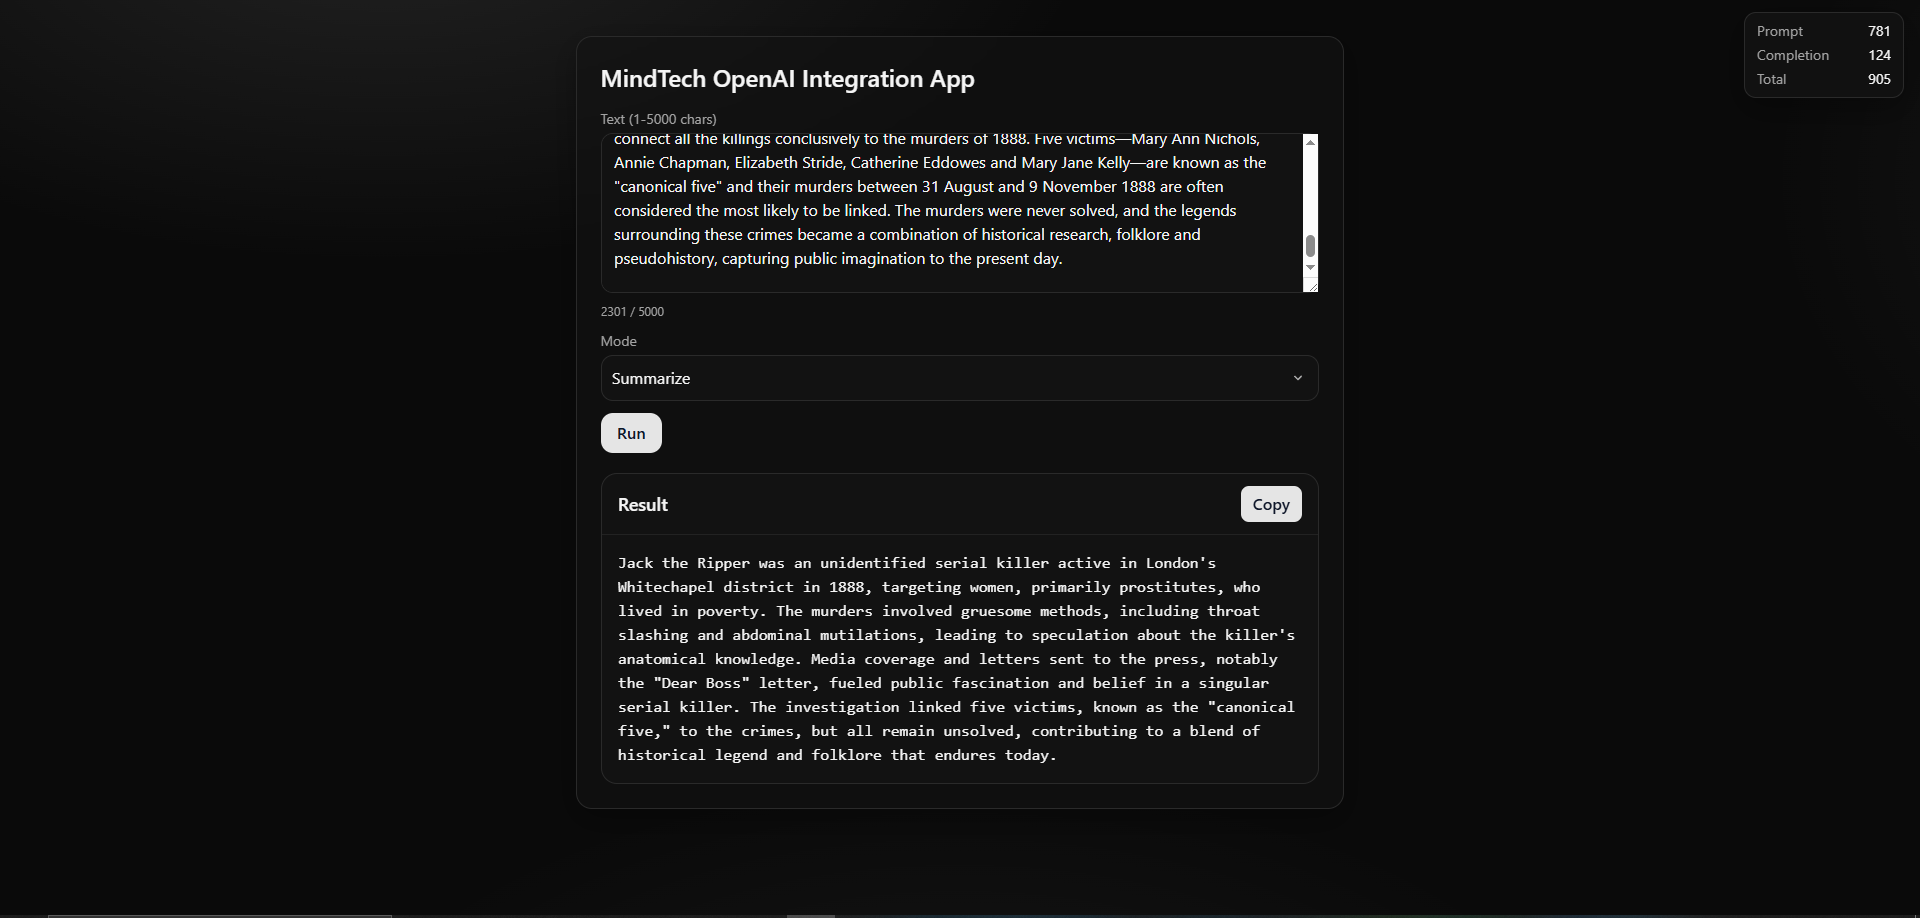
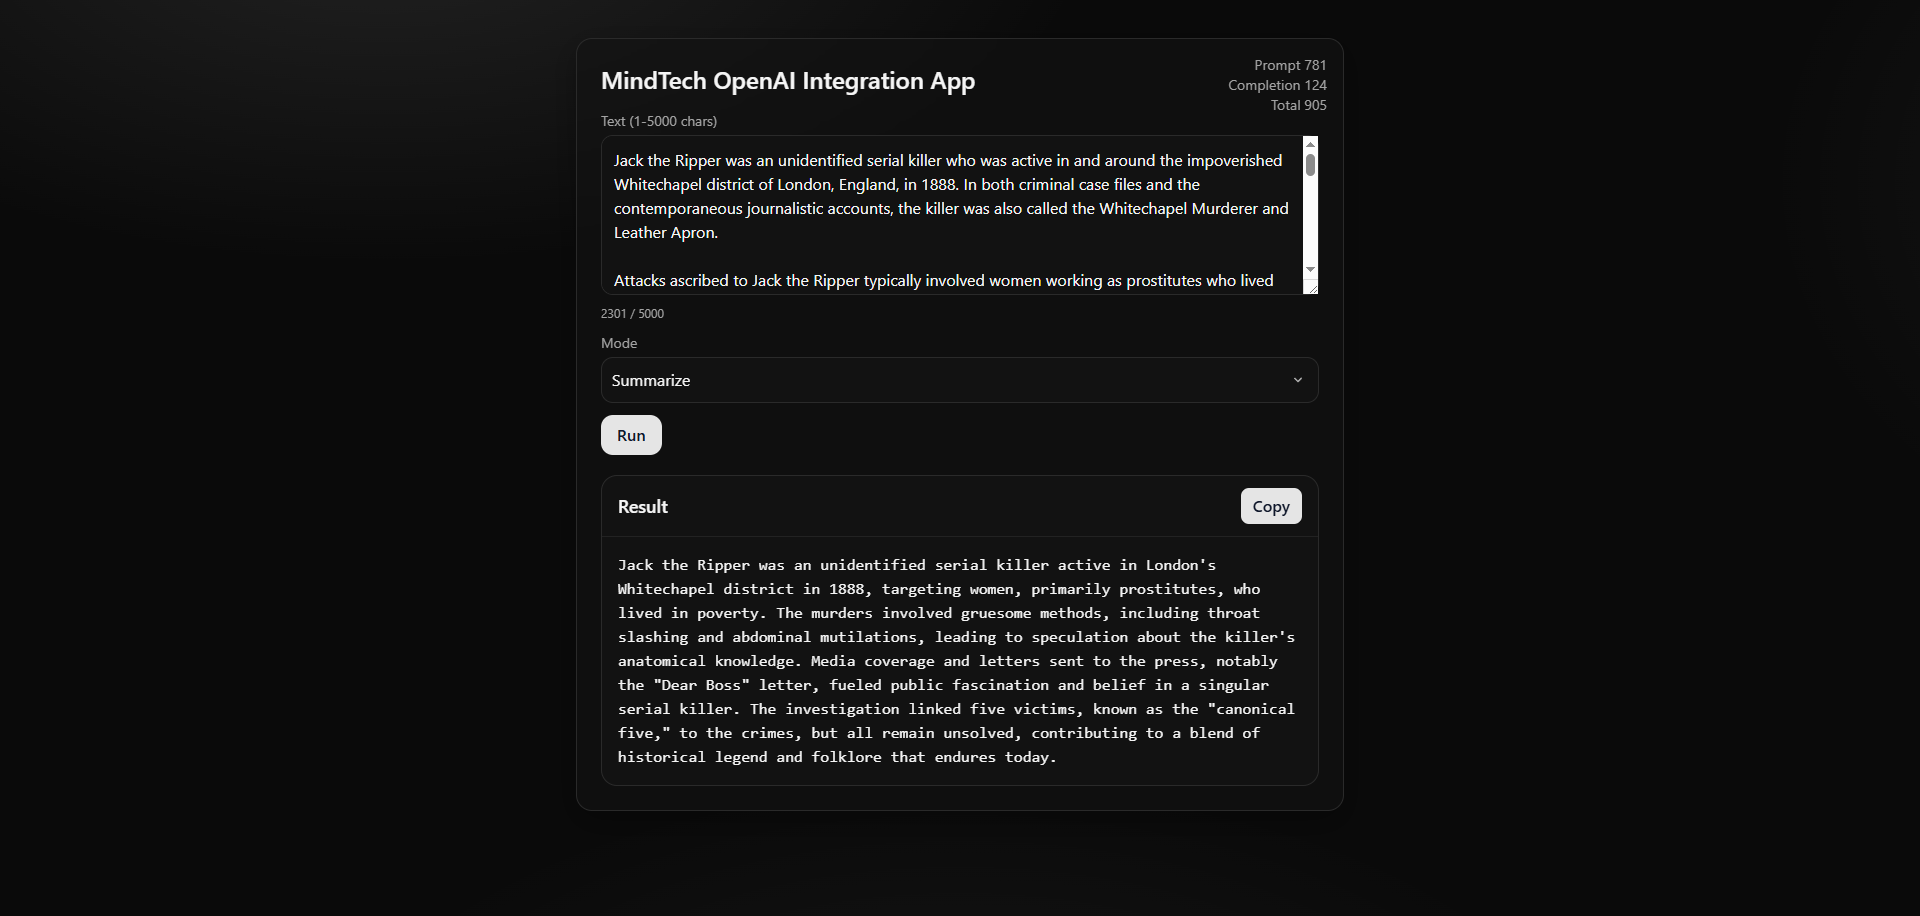
moved token usage into main form, pasted screenshots

diff --git a/frontend/src/App.jsx b/frontend/src/App.jsx
@@ -119,17 +119,17 @@ function App() {
 
   return (
     <>
-      {/* Usage floating */}
-      {result && (
-        <div className="fixed top-4 right-4 bg-card/90 border border-border rounded-xl px-3 py-2 shadow-glass min-w-40">
-          <div className="flex items-center justify-between gap-3 text-sm"><span className="text-muted">Prompt</span><span>{usage.prompt_tokens}</span></div>
-          <div className="flex items-center justify-between gap-3 text-sm mt-1"><span className="text-muted">Completion</span><span>{usage.completion_tokens}</span></div>
-          <div className="flex items-center justify-between gap-3 text-sm mt-1"><span className="text-muted">Total</span><span>{usage.total_tokens}</span></div>
-        </div>
-      )}
-
-      <div className="max-w-3xl mx-auto mt-10 mb-10 p-6 bg-card/60 border border-border rounded-2xl backdrop-blur-xs shadow-glass flex flex-col overflow-hidden max-h-[calc(100vh-5rem)]">
+      <div className="relative max-w-3xl mx-auto mt-10 mb-10 p-6 bg-card/60 border border-border rounded-2xl backdrop-blur-xs shadow-glass flex flex-col overflow-hidden max-h-[calc(100vh-5rem)]">
         <h1 className="text-2xl font-semibold mb-4">MindTech OpenAI Integration App</h1>
+
+        {/* Usage text in the card's top-right (no cloud) */}
+        {result && (
+          <div className="absolute top-4 right-4 text-xs sm:text-sm text-muted text-right leading-5">
+            <div>Prompt {usage.prompt_tokens}</div>
+            <div>Completion {usage.completion_tokens}</div>
+            <div>Total {usage.total_tokens}</div>
+          </div>
+        )}
 
         <form onSubmit={onSubmit} className="space-y-3">
           <div>

diff --git a/README.md b/README.md
@@ -158,10 +158,14 @@ __sample prompts are in `sample.txt`__
 
 ## Screenshots
 
-UI:
+__UI__:
 
 ![UI](screenshot_ui.png)
 
-JSON:
+__JSON__:
 
 ![JSON](screenshot_json.png)
+
+__Rephrase__:
+
+![Rephrase](screenshot_rephrase.png)
